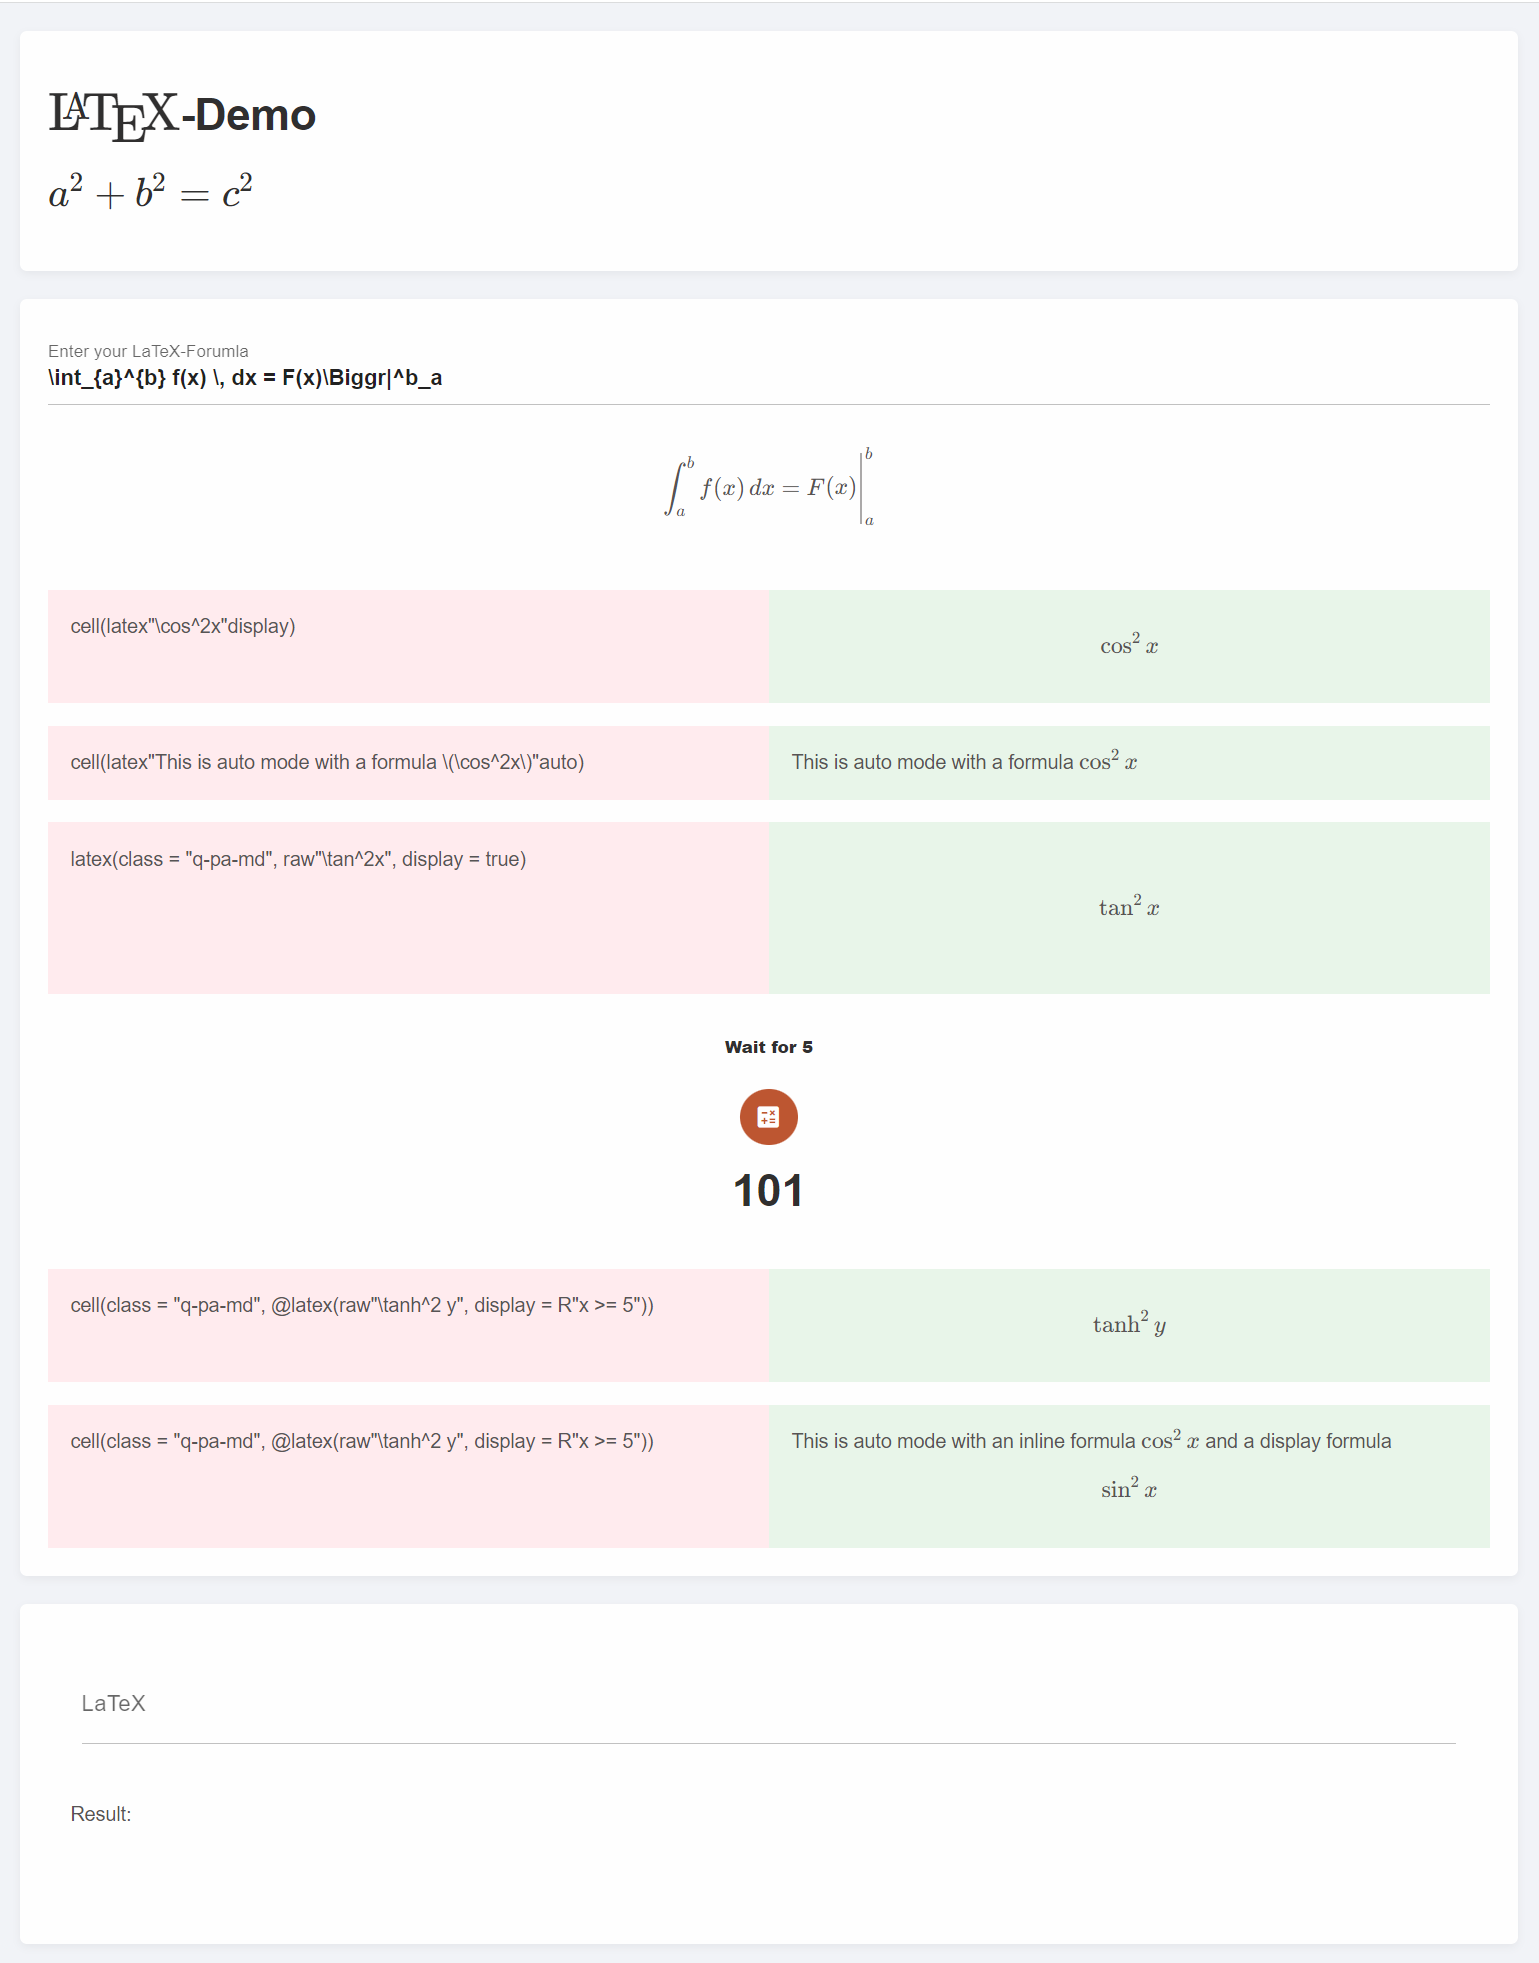
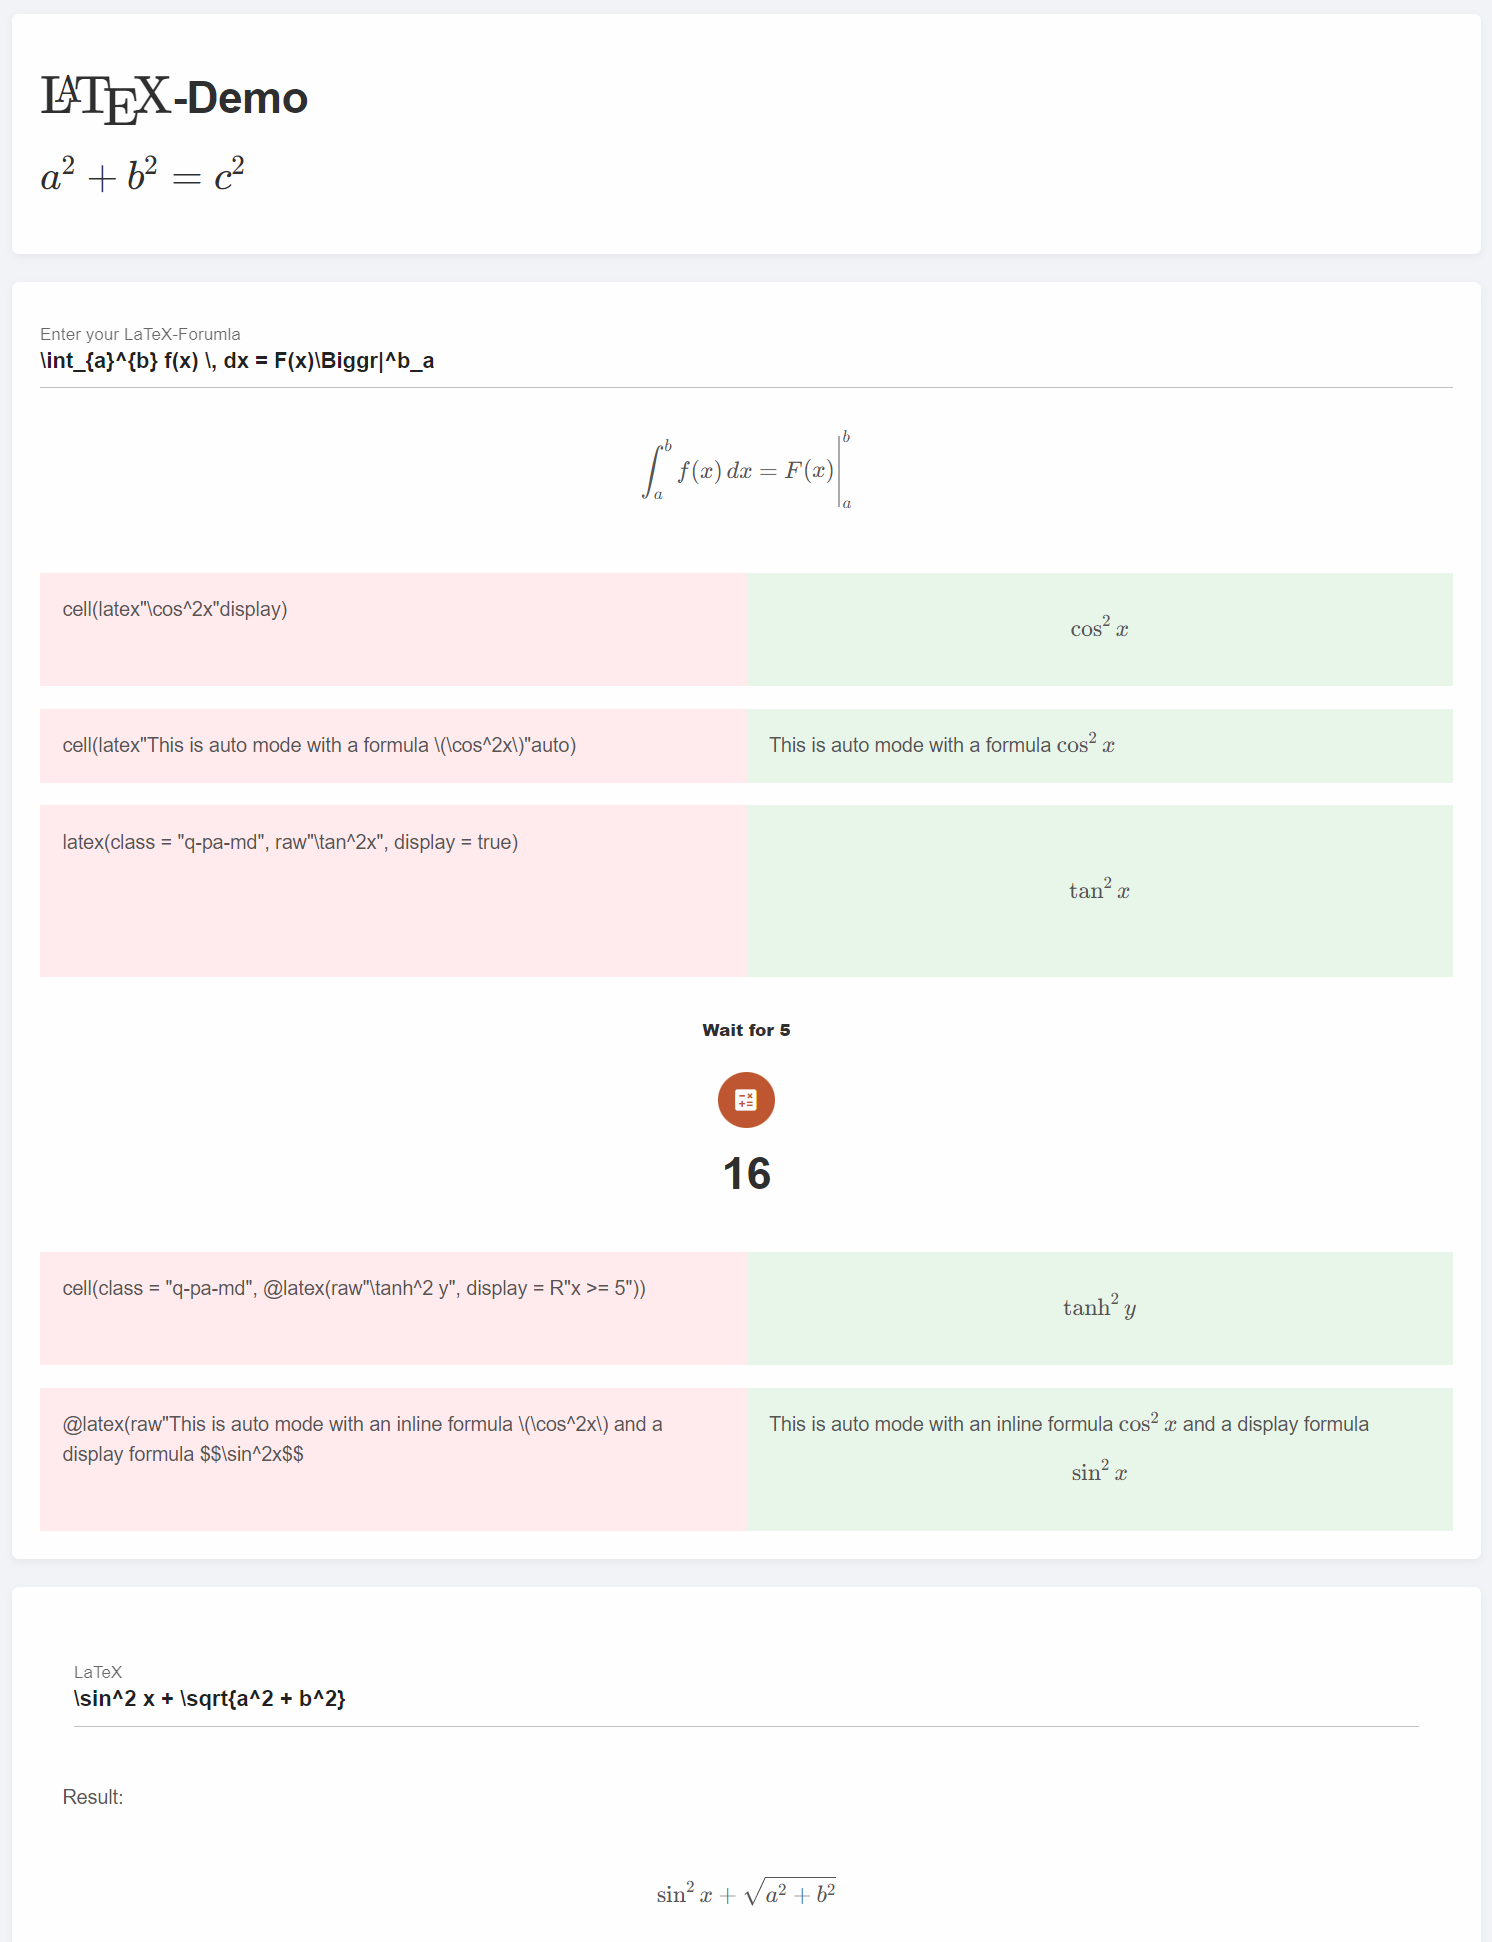
fix auto demo

diff --git a/README.md b/README.md
@@ -93,7 +93,7 @@ function ui()
 
 
             row([
-                cell(class = "q-pa-md bg-red-1", raw"""cell(class = "q-pa-md", @latex(raw"\tanh^2 y", display = R"x >= 5"))""")
+                cell(class = "q-pa-md bg-red-1", raw"""@latex(raw"This is auto mode with an inline formula \(\cos^2x\) and a display formula $$\sin^2x$$""")
                 cell(class = "q-pa-md bg-green-1", @latex(raw"This is auto mode with an inline formula \(\cos^2x\) and a display formula $$\sin^2x$$", auto = true))
             ])
         ]))
